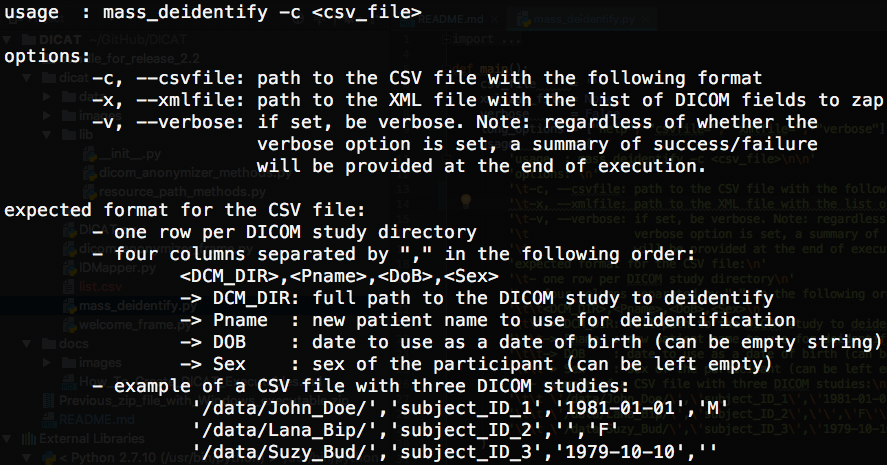
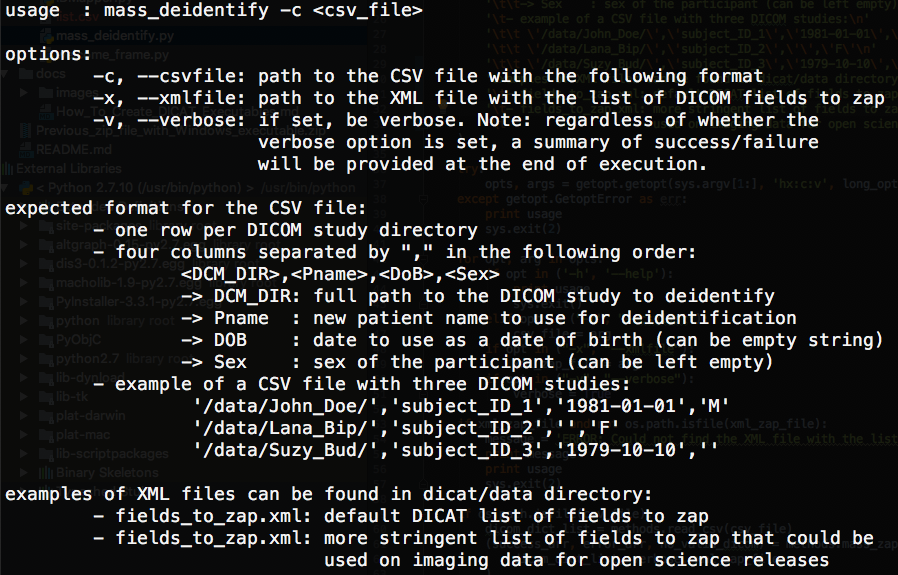
updated documentation again

Changed region(s): [[0.0, 0.0, 1.0, 0.9935]]

diff --git a/dicat/mass_deidentify.py b/dicat/mass_deidentify.py
@@ -26,7 +26,11 @@ def main():
         '\t- example of a CSV file with three DICOM studies:\n'
         '\t\t \'/data/John_Doe/\',\'subject_ID_1\',\'1981-01-01\',\'M\'\n'
         '\t\t \'/data/Lana_Bip/\',\'subject_ID_2\',\'\',\'F\'\n'
-        '\t\t \'/data/Suzy_Bud/\',\'subject_ID_3\',\'1979-10-10\',\'\'\n'
+        '\t\t \'/data/Suzy_Bud/\',\'subject_ID_3\',\'1979-10-10\',\'\'\n\n'
+        'examples of XML files can be found in dicat/data directory:\n'
+        '\t- fields_to_zap.xml: default DICAT list of fields to zap\n'
+        '\t- fields_to_zap.xml: more stringent list of fields to zap that could be\n'
+        '\t                     used on imaging data for open science releases\n'
     )
 
     try:
